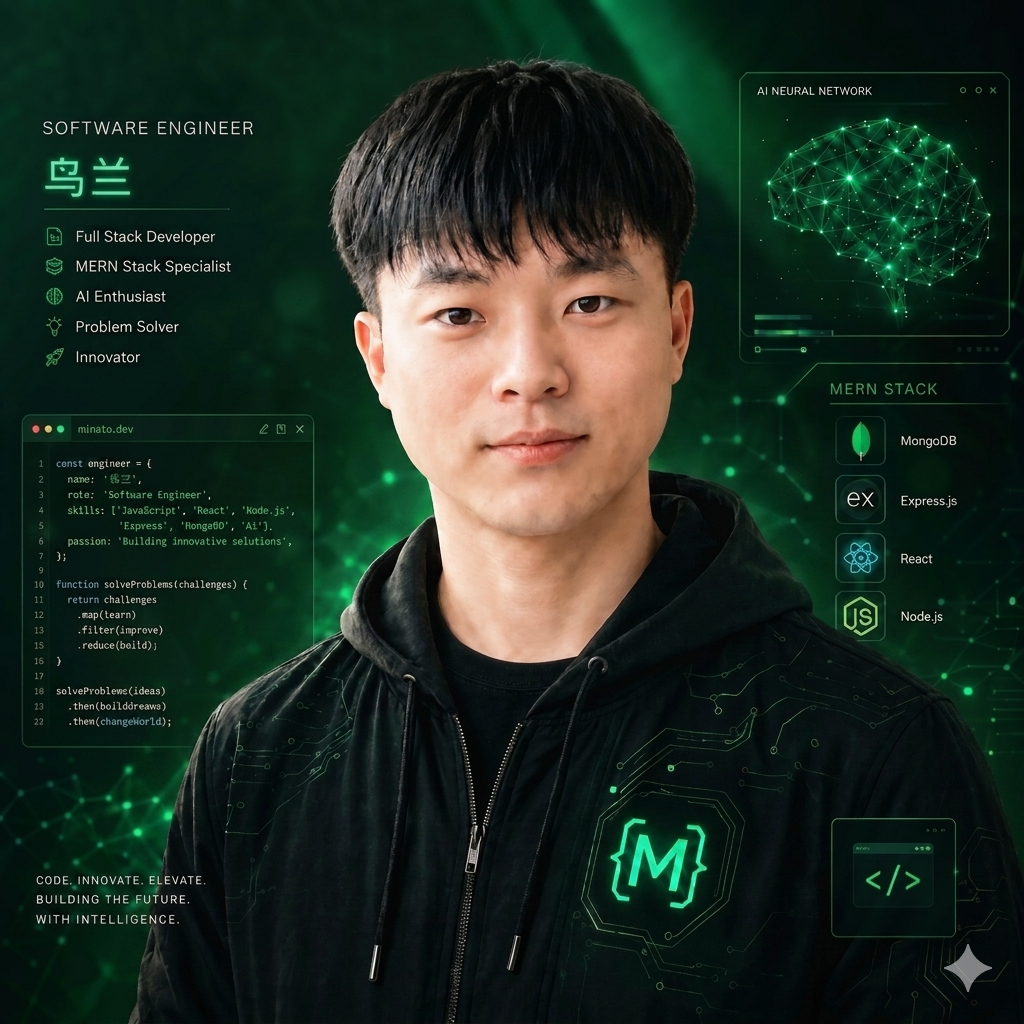
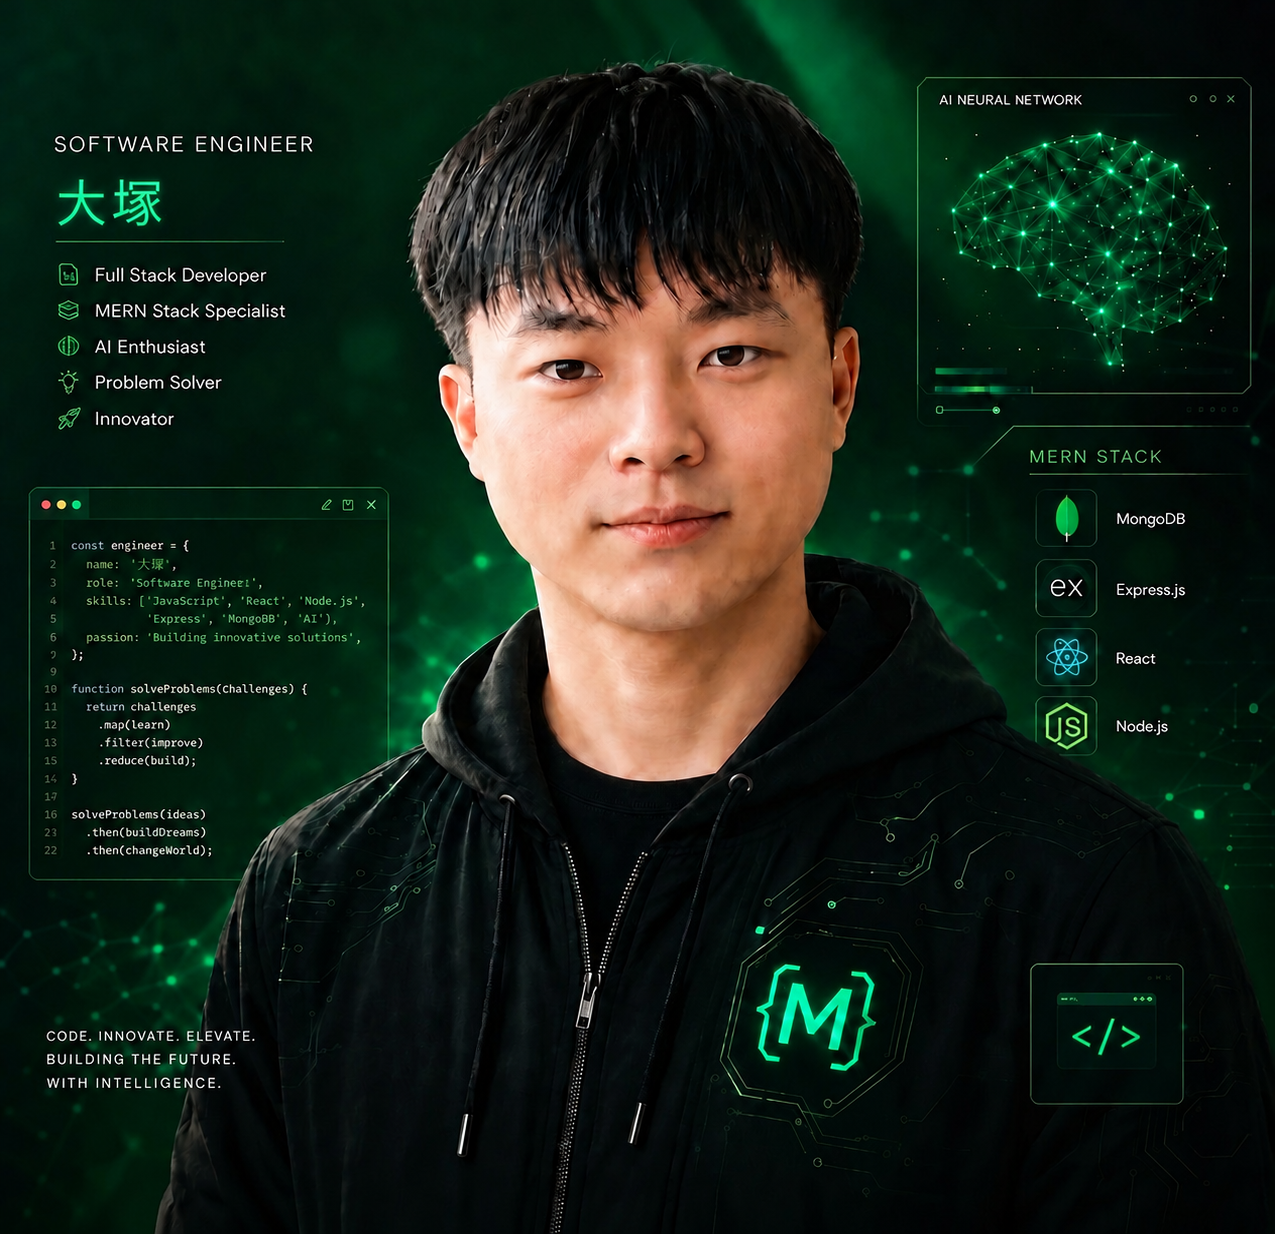
update: replace hero profile image

diff --git a/components/Footer.tsx b/components/Footer.tsx
@@ -121,15 +121,15 @@ export default function Footer() {
                 fontWeight: 900, fontSize: '1rem', color: '#fff',
                 background: 'linear-gradient(135deg, #2bb5a0, #3a7bd5)',
                 boxShadow: '0 4px 12px rgba(43,181,160,0.30)',
-              }}>U</div>
+              }}>詩</div>
               <div>
-                <div style={{ fontWeight: 900, fontSize: '1.15rem', color: '#fff', letterSpacing: '0.06em' }}>URAN</div>
+                <div style={{ fontWeight: 900, fontSize: '1.15rem', color: '#fff', letterSpacing: '0.06em' }}>大塚詩音</div>
                 <div style={{ fontSize: '0.55rem', fontFamily: 'monospace', letterSpacing: '0.22em', color: '#8c7d65' }}>FULL-STACK ENGINEER</div>
               </div>
             </div>
 
             <p style={{ fontSize: '0.82rem', lineHeight: 1.85, color: '#a89880', marginBottom: '1.25rem' }}>
-              React・TypeScript・Java・PHP を中心に、フロントエンドからクラウド運用まで対応する台湾出身のフルスタックエンジニアです。
+              React・TypeScript・Java・PHP を中心に、フロントエンドからクラウド運用まで対応する埼玉県出身のフルスタックエンジニアです。
             </p>
 
             <div style={{ display: 'flex', alignItems: 'center', gap: '0.5rem', marginBottom: '1.1rem' }}>
@@ -141,15 +141,15 @@ export default function Footer() {
             </div>
 
             <div style={{ display: 'flex', flexDirection: 'column', gap: '0.6rem', marginBottom: '1.25rem' }}>
-              <a href="mailto:gold77chi11@gmail.com"
+              <a href="mailto:shion.otsuka@example.com"
                 style={{ display: 'flex', alignItems: 'center', gap: '0.6rem', fontSize: '0.8rem', color: '#a89880', textDecoration: 'none', transition: 'color 0.2s' }}
                 onMouseEnter={e => (e.currentTarget.style.color = '#fff')}
                 onMouseLeave={e => (e.currentTarget.style.color = '#a89880')}
               >
-                <Mail size={14} style={{ color: '#3a7bd5', flexShrink: 0 }} />gold77chi11@gmail.com
+                <Mail size={14} style={{ color: '#3a7bd5', flexShrink: 0 }} />shion.otsuka@example.com
               </a>
               <div style={{ display: 'flex', alignItems: 'center', gap: '0.6rem', fontSize: '0.8rem', color: '#a89880' }}>
-                <MapPin size={14} style={{ color: '#8b5cf6', flexShrink: 0 }} />台北市 大安區（台湾）
+                <MapPin size={14} style={{ color: '#8b5cf6', flexShrink: 0 }} />埼玉県三郷市（〒341-0018）
               </div>
             </div>
 
@@ -242,10 +242,10 @@ export default function Footer() {
         <div style={{ height: '1px', background: 'rgba(255,255,255,0.06)', marginBottom: '1.5rem' }} />
 
         <div style={{ display: 'flex', flexWrap: 'wrap', alignItems: 'center', justifyContent: 'space-between', gap: '1rem' }}>
-          <p style={{ fontSize: '0.72rem', color: '#5a4e3a' }}>© 2026 URAN. All rights reserved.</p>
+          <p style={{ fontSize: '0.72rem', color: '#5a4e3a' }}>© 2026 大塚詩音. All rights reserved.</p>
           <div style={{ display: 'flex', alignItems: 'center', gap: '1.25rem' }}>
             <div style={{ display: 'flex', alignItems: 'center', gap: '0.35rem', fontSize: '0.72rem', color: '#5a4e3a' }}>
-              Made with <Heart size={11} style={{ color: '#e86c5d', margin: '0 1px' }} /> in Taiwan
+              Made with <Heart size={11} style={{ color: '#e86c5d', margin: '0 1px' }} /> in Saitama
             </div>
             <motion.button
               onClick={() => window.scrollTo({ top: 0, behavior: 'smooth' })}

diff --git a/components/About.tsx b/components/About.tsx
@@ -25,10 +25,10 @@ const CAREER = [
 ];
 
 const HIGHLIGHTS = [
-  { icon: <MapPin size={14} />,        label: '所在地',   value: '台北市 大安區（台湾）',                                    color: '#3a7bd5' },
-  { icon: <GraduationCap size={14} />, label: '最終学歴', value: '淡江大学 情報工学科 学士（2021年卒）',                      color: '#8b5cf6' },
-  { icon: <Languages size={14} />,     label: '語学力',   value: '中国語（ネイティブ）・日本語（ビジネス）・英語（技術読解）', color: '#2bb5a0' },
-  { icon: <Award size={14} />,         label: '資格',     value: '基本情報技術者試験 合格（2023年）',                         color: '#e8a949' },
+  { icon: <MapPin size={14} />,        label: '所在地',   value: '埼玉県三郷市早稲田5丁目5番地13',                              color: '#3a7bd5' },
+  { icon: <GraduationCap size={14} />, label: '生年月日', value: '2000年01月11日',                                              color: '#8b5cf6' },
+  { icon: <Languages size={14} />,     label: '語学力',   value: '日本語（ネイティブ）・英語（技術読解）',                       color: '#2bb5a0' },
+  { icon: <Award size={14} />,         label: '性別',     value: '男性',                                                        color: '#e8a949' },
 ];
 
 const STRENGTHS = [
@@ -141,14 +141,14 @@ export default function About() {
                       border: '3px solid #fff', boxShadow: '0 4px 20px rgba(45,36,22,0.18)',
                     }}
                   >
-                    <Image src="/hero-profile-2.jpg" alt="URAN" width={72} height={72} style={{ objectFit: 'cover', width: '100%', height: '100%' }} />
+                    <Image src="/hero-profile-2.jpg" alt="大塚詩音" width={72} height={72} style={{ objectFit: 'cover', width: '100%', height: '100%' }} />
                   </motion.div>
                 </div>
               </div>
               <div style={{ padding: '2.8rem 1.4rem 1.4rem' }}>
                 <div style={{ display: 'flex', alignItems: 'flex-start', justifyContent: 'space-between', flexWrap: 'wrap', gap: '0.5rem', marginBottom: '0.75rem' }}>
                   <div>
-                    <div style={{ fontWeight: 900, fontSize: '1.2rem', color: '#2d2416', lineHeight: 1.2 }}>URAN</div>
+                    <div style={{ fontWeight: 900, fontSize: '1.2rem', color: '#2d2416', lineHeight: 1.2 }}>大塚詩音</div>
                     <div style={{ fontSize: '0.7rem', color: '#8c7d65', fontFamily: 'monospace', letterSpacing: '0.12em' }}>FULL-STACK ENGINEER</div>
                   </div>
                   <div style={{ display: 'flex', alignItems: 'center', gap: '0.5rem' }}>
@@ -160,7 +160,7 @@ export default function About() {
                   </div>
                 </div>
                 <p style={{ fontSize: '0.84rem', lineHeight: 1.85, color: '#5a4e3a' }}>
-                  台湾出身のフルスタックエンジニア。
+                  埼玉県出身のフルスタックエンジニア。
                   <strong style={{ color: '#2d2416' }}>React・TypeScript・Java・PHP</strong> を中心に製造・流通・EC 業界の業務システム開発に
                   <strong style={{ color: '#2bb5a0' }}> 5年以上</strong>携わっています。
                 </p>

diff --git a/components/Contact.tsx b/components/Contact.tsx
@@ -22,11 +22,11 @@ const inputCls: React.CSSProperties = {
 };
 
 const INFO_ITEMS = [
-  { icon: <Mail size={16} />,        label: 'メール',     value: 'gold77chi11@gmail.com',    color: '#3a7bd5', href: 'mailto:gold77chi11@gmail.com' },
-  { icon: <MapPin size={16} />,      label: '所在地',     value: '台北市 大安區（台湾）',      color: '#8b5cf6', href: null },
-  { icon: <Clock size={16} />,       label: '対応時間',   value: '平日 9:00〜18:00（JST）',   color: '#2bb5a0', href: null },
-  { icon: <MessageCircle size={16} />,label: '返信目安',  value: '24 時間以内にご返信',        color: '#e8a949', href: null },
-  { icon: <Phone size={16} />,       label: '対応言語',   value: '日本語・中国語・英語',        color: '#34c78a', href: null },
+  { icon: <Mail size={16} />,        label: 'メール',     value: 'shion.otsuka@example.com',        color: '#3a7bd5', href: 'mailto:shion.otsuka@example.com' },
+  { icon: <MapPin size={16} />,      label: '所在地',     value: '埼玉県三郷市（〒341-0018）',        color: '#8b5cf6', href: null },
+  { icon: <Clock size={16} />,       label: '対応時間',   value: '平日 9:00〜18:00（JST）',           color: '#2bb5a0', href: null },
+  { icon: <MessageCircle size={16} />,label: '返信目安',  value: '24 時間以内にご返信',               color: '#e8a949', href: null },
+  { icon: <Phone size={16} />,       label: '対応言語',   value: '日本語・英語',                      color: '#34c78a', href: null },
 ];
 
 export default function Contact() {
@@ -184,7 +184,7 @@ export default function Contact() {
                     <p style={{ fontSize: '0.8rem', color: '#5a4e3a', lineHeight: 1.85 }}>
                       ポートフォリオサイトへのご訪問ありがとうございます。<br />
                       お仕事のご依頼・ご相談はこちらのフォームからどうぞ。<br />
-                      メール：<a href="mailto:gold77chi11@gmail.com" style={{ color: '#2bb5a0', fontWeight: 700 }}>gold77chi11@gmail.com</a>
+                      メール：<a href="mailto:shion.otsuka@example.com" style={{ color: '#2bb5a0', fontWeight: 700 }}>shion.otsuka@example.com</a>
                     </p>
                   </div>
 

diff --git a/components/Navbar.tsx b/components/Navbar.tsx
@@ -14,10 +14,10 @@ const NAV_LINKS = [
   { href: '#contact',      ja: '連絡先' },
 ];
 
-/* ─── URAN brand logo SVG ─── */
-function UranLogo({ size = 32 }: { size?: number }) {
+/* ─── Shion brand logo SVG ─── */
+function ShionLogo({ size = 32 }: { size?: number }) {
   return (
-    <svg width={size} height={size} viewBox="0 0 40 40" fill="none" xmlns="http://www.w3.org/2000/svg" aria-label="URAN logo">
+    <svg width={size} height={size} viewBox="0 0 40 40" fill="none" xmlns="http://www.w3.org/2000/svg" aria-label="大塚詩音 logo">
       {/* Outer ring */}
       <circle cx="20" cy="20" r="18" stroke="url(#logo-ring)" strokeWidth="1.5" />
       {/* Orbit arc */}
@@ -127,7 +127,7 @@ export default function Navbar() {
               whileHover={{ rotate: 15, scale: 1.1 }}
               transition={{ type: 'spring', stiffness: 300, damping: 18 }}
             >
-              <UranLogo size={36} />
+              <ShionLogo size={36} />
             </motion.div>
             <div style={{ lineHeight: 1.15 }}>
               <div style={{
@@ -139,7 +139,7 @@ export default function Navbar() {
                 textShadow: scrolled ? 'none' : '0 1px 12px rgba(0,0,0,0.45)',
                 transition: 'color 0.3s',
               }}>
-                URAN
+                大塚詩音
               </div>
               <div style={{
                 fontSize: '0.5rem',

diff --git a/app/layout.tsx b/app/layout.tsx
@@ -2,12 +2,12 @@ import type { Metadata } from 'next';
 import './globals.css';
 
 export const metadata: Metadata = {
-  title: 'URAN — Full-Stack Engineer Portfolio',
+  title: '大塚詩音 — Full-Stack Engineer Portfolio',
   description:
-    'React・TypeScript・Java（Spring Boot）・PHP（Laravel）・AWS を用いた業務システム開発に5年以上携わるフルスタックエンジニア URAN のポートフォリオ。',
+    'React・TypeScript・Java（Spring Boot）・PHP（Laravel）・AWS を用いた業務システム開発に5年以上携わるフルスタックエンジニア 大塚詩音 のポートフォリオ。',
   keywords: ['フルスタックエンジニア', 'React', 'TypeScript', 'Java', 'Spring Boot', 'Laravel', 'AWS', 'Docker', 'NestJS'],
   openGraph: {
-    title: 'URAN — Full-Stack Engineer Portfolio',
+    title: '大塚詩音 — Full-Stack Engineer Portfolio',
     description: 'Full-Stack Engineer specializing in React, TypeScript, Java Spring Boot, PHP Laravel, and AWS.',
     type: 'website',
   },

diff --git a/components/Hero.tsx b/components/Hero.tsx
@@ -156,7 +156,7 @@ export default function Hero() {
             fontFamily: "'Noto Sans JP', 'Inter', sans-serif",
           }}
         >
-          URAN
+          大塚詩音
         </motion.h1>
 
         <motion.div
